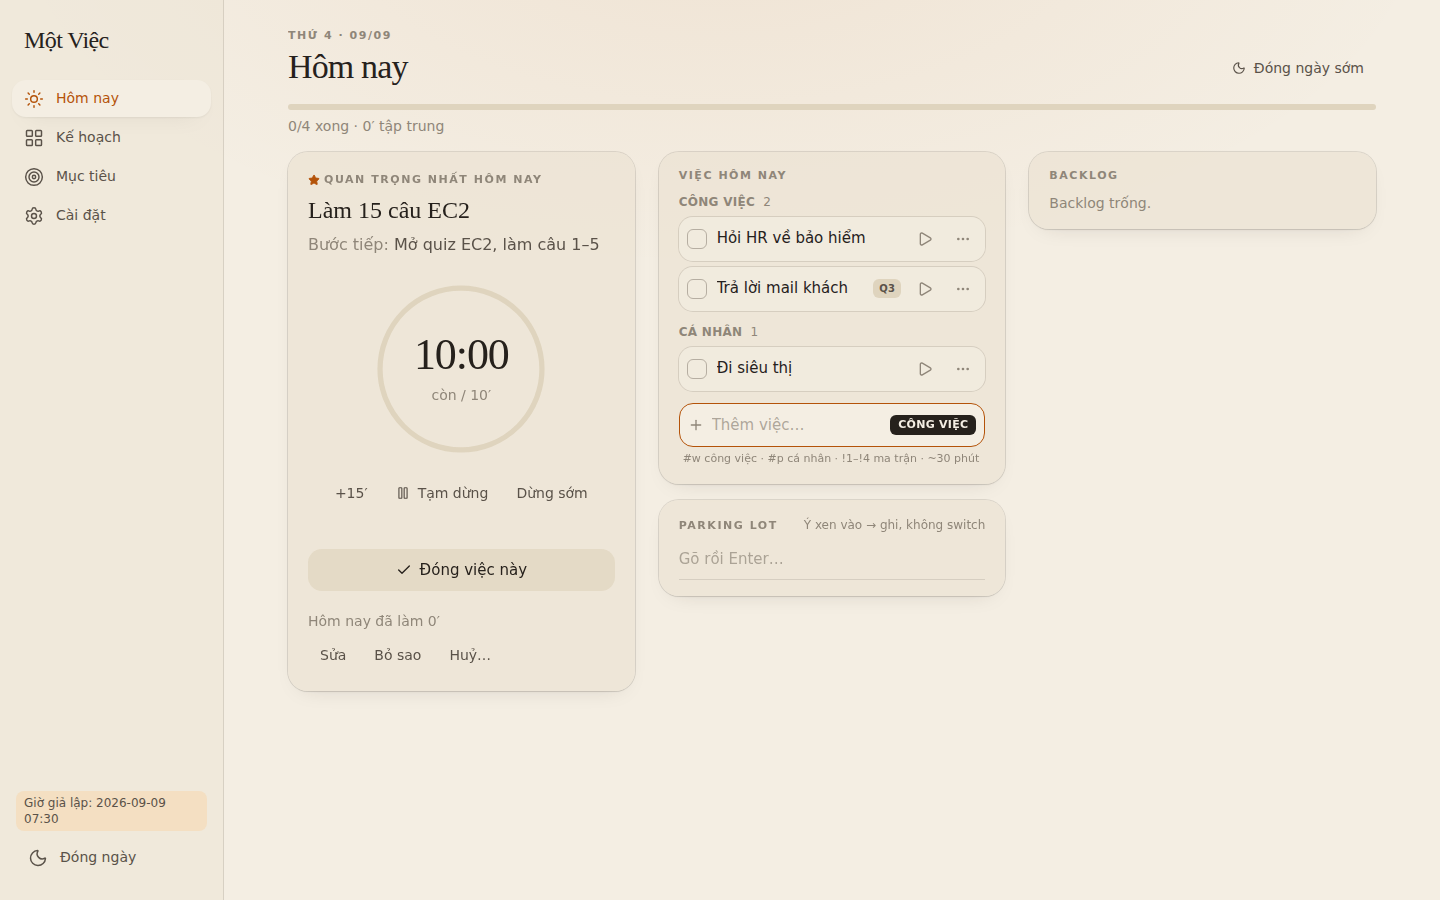
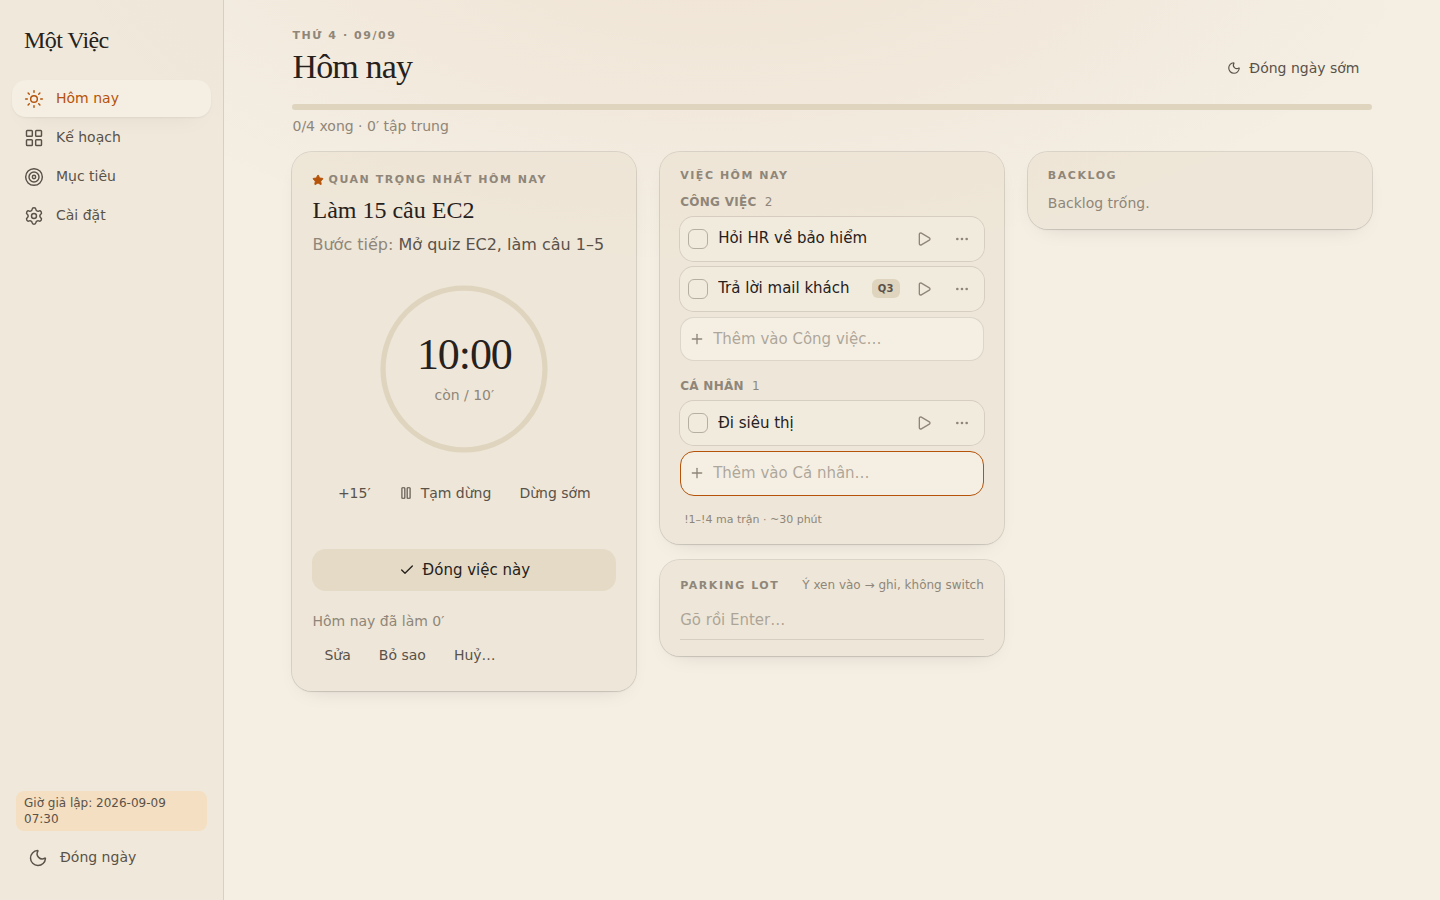
Today: one quick-add per area instead of a work/personal toggle
Adding a task on Today meant typing into a single box and remembering to
flip a work/personal chip (or to type #w / #p), even though the list right
above already shows the two areas.

Both areas now always render — Công việc and Cá nhân — each with its own
quick-add whose placeholder names the section, so the area comes from
where you type. An empty area still shows, since otherwise there would be
nowhere to add its first task. The hint line about !1–!4 and ~30 moved
below both inputs and lost the #w/#p part; the tokens still parse when
typed.

QuickAdd gains showArea and hint props for this; every other caller (the
morning screen, shutdown planning, the week and month day cells, the
backlog panels) keeps the toggle it had.

Claude-Session: https://claude.ai/code/session_01BCiC3tnhB7K4xh2K39qLye

diff --git a/src/screens/TodayScreen.tsx b/src/screens/TodayScreen.tsx
@@ -61,9 +61,9 @@ export function TodayScreen({
 
   // MIT đã có card riêng ở trên; không lặp lại trong danh sách
   const listed = open.filter((x) => x.id !== mit?.id)
+  // Luôn vẽ cả hai khu vực (kể cả khi trống) vì mỗi khu vực có ô thêm việc riêng.
   const groups: { area: Area; items: Task[] }[] = (['work', 'personal'] as Area[])
     .map((area) => ({ area, items: listed.filter((x) => x.area === area) }))
-    .filter((g) => g.items.length > 0)
 
   const progress = tasks.length > 0 && (
     <div>
@@ -167,22 +167,28 @@ export function TodayScreen({
             <Eyebrow className="mb-2">{t('today.list')}</Eyebrow>
             {listed.length === 0 && done.length === 0 && <Muted className="mb-3">{t('today.empty')}</Muted>}
             {groups.map((g) => (
-              <div key={g.area} className="mb-3">
+              <div key={g.area} className="mb-4">
                 <p className="mb-1.5 flex items-baseline gap-2 text-[12px] font-semibold uppercase tracking-wide text-ink-3">
-                  {t(`area.${g.area}`)} <span className="font-normal">{g.items.length}</span>
+                  {t(`area.${g.area}`)} {g.items.length > 0 && <span className="font-normal">{g.items.length}</span>}
                 </p>
-                <SortableList ids={g.items.map((x) => x.id)} onReorder={(ids) => void reorderTasks(ids)}>
-                  <ul className="flex flex-col gap-1.5">
-                    {g.items.map((x) => (
-                      <SortableItem key={x.id} id={x.id}>
-                        <TaskRow task={x} today={today} minutes={minutesOf.get(x.id) ?? 0} onFocus={setStarting} onEdit={setEditing} onComplete={setLogging} />
-                      </SortableItem>
-                    ))}
-                  </ul>
-                </SortableList>
+                {g.items.length > 0 && (
+                  <SortableList ids={g.items.map((x) => x.id)} onReorder={(ids) => void reorderTasks(ids)}>
+                    <ul className="mb-1.5 flex flex-col gap-1.5">
+                      {g.items.map((x) => (
+                        <SortableItem key={x.id} id={x.id}>
+                          <TaskRow task={x} today={today} minutes={minutesOf.get(x.id) ?? 0} onFocus={setStarting} onEdit={setEditing} onComplete={setLogging} />
+                        </SortableItem>
+                      ))}
+                    </ul>
+                  </SortableList>
+                )}
+                <QuickAdd
+                  scheduledFor={today} defaultArea={g.area} showArea={false} hint={false}
+                  placeholder={t('quick.ph.area', { area: t(`area.${g.area}`) })}
+                />
               </div>
             ))}
-            <QuickAdd scheduledFor={today} defaultArea={settings.defaultArea} />
+            <p className="px-1 text-[11px] text-ink-3">{t('quick.hint.short')}</p>
             {done.length > 0 && (
               <div className="mt-3">
                 <button className="flex items-center gap-1 text-[12px] font-semibold uppercase tracking-wide text-ink-3" onClick={() => setShowDone((s) => !s)}>

diff --git a/src/components/QuickAdd.tsx b/src/components/QuickAdd.tsx
@@ -6,10 +6,22 @@ import type { ISODate } from '../lib/dates'
 import { parseQuickAdd } from '../lib/quickAdd'
 import type { Area, Quadrant } from '../lib/types'
 
-/** Ô thêm nhanh: Enter để tạo. Toggle khu vực; token #w/#p/!n/~m ghi đè. */
+/**
+ * Ô thêm nhanh: Enter để tạo. Token #w/#p/!n/~m luôn ghi đè.
+ * showArea=false: bỏ nút chuyển khu vực và luôn dùng defaultArea — dùng khi ô nằm sẵn
+ * trong một khu vực (mỗi mục Công việc / Cá nhân có ô riêng) nên không cần chọn lại.
+ */
 export function QuickAdd({
-  scheduledFor, defaultArea, quadrant, onCreated, placeholder,
-}: { scheduledFor?: ISODate; defaultArea: Area; quadrant?: Quadrant; onCreated?: (id: string) => void; placeholder?: string }) {
+  scheduledFor, defaultArea, quadrant, onCreated, placeholder, showArea = true, hint = true,
+}: {
+  scheduledFor?: ISODate
+  defaultArea: Area
+  quadrant?: Quadrant
+  onCreated?: (id: string) => void
+  placeholder?: string
+  showArea?: boolean
+  hint?: boolean
+}) {
   const { t } = useT()
   const [text, setText] = useState('')
   const [area, setArea] = useState<Area>(defaultArea)
@@ -17,7 +29,7 @@ export function QuickAdd({
   async function submit() {
     const q = parseQuickAdd(text)
     if (!q.title) return
-    const task = await createTask({ title: q.title, area: q.area ?? area, quadrant: q.quadrant ?? quadrant, estimateMin: q.estimateMin, scheduledFor })
+    const task = await createTask({ title: q.title, area: q.area ?? (showArea ? area : defaultArea), quadrant: q.quadrant ?? quadrant, estimateMin: q.estimateMin, scheduledFor })
     setText('')
     onCreated?.(task.id)
   }
@@ -39,15 +51,17 @@ export function QuickAdd({
           }}
           enterKeyHint="done"
         />
-        <button
-          type="button"
-          className={`shrink-0 rounded-md px-2 py-0.5 text-[11px] font-semibold uppercase tracking-wide ${area === 'work' ? 'bg-ink text-paper' : 'bg-paper-3 text-ink-2'}`}
-          onClick={() => setArea((a) => (a === 'work' ? 'personal' : 'work'))}
-        >
-          {t(`area.${area}`)}
-        </button>
+        {showArea && (
+          <button
+            type="button"
+            className={`shrink-0 rounded-md px-2 py-0.5 text-[11px] font-semibold uppercase tracking-wide ${area === 'work' ? 'bg-ink text-paper' : 'bg-paper-3 text-ink-2'}`}
+            onClick={() => setArea((a) => (a === 'work' ? 'personal' : 'work'))}
+          >
+            {t(`area.${area}`)}
+          </button>
+        )}
       </div>
-      <p className="mt-1 px-1 text-[11px] text-ink-3">{t('quick.hint')}</p>
+      {hint && <p className="mt-1 px-1 text-[11px] text-ink-3">{t(showArea ? 'quick.hint' : 'quick.hint.short')}</p>}
     </div>
   )
 }

diff --git a/src/i18n/vi.ts b/src/i18n/vi.ts
@@ -51,6 +51,8 @@ export const vi = {
   'sheet.save': 'Lưu',
   'quick.ph': 'Thêm việc…',
   'quick.hint': '#w công việc · #p cá nhân · !1–!4 ma trận · ~30 phút',
+  'quick.ph.area': 'Thêm vào {area}…',
+  'quick.hint.short': '!1–!4 ma trận · ~30 phút',
   'today.progressBar': '{done}/{total} xong · {min}′ tập trung',
   'today.pickMit': 'Chưa chọn việc quan trọng nhất. Chạm ★ ở một việc.',
   'today.mit': 'Quan trọng nhất hôm nay',

diff --git a/src/i18n/en.ts b/src/i18n/en.ts
@@ -51,6 +51,8 @@ export const en: Record<Key, string> = {
   'sheet.save': 'Save',
   'quick.ph': 'Add a task…',
   'quick.hint': '#w work · #p personal · !1–!4 matrix · ~30 minutes',
+  'quick.ph.area': 'Add to {area}…',
+  'quick.hint.short': '!1–!4 matrix · ~30 minutes',
   'today.progressBar': '{done}/{total} done · {min}′ focused',
   'today.pickMit': 'No most-important task yet. Tap ★ on one.',
   'today.mit': 'Most important today',

diff --git a/README.md b/README.md
@@ -22,7 +22,7 @@ Trên màn rộng (≥1024px) điều hướng chuyển sang sidebar trái và m
 
 ## Bốn tab
 
-1. **Hôm nay**: MIT (nếu có) với timer đếm ngược, DoD, hậu quả, Huỷ…; danh sách việc trong ngày nhóm Công việc / Cá nhân, kéo thả sắp thứ tự, ▶ tập trung cho bất kỳ việc nào (chọn 10 / 25 / 45 / 60 phút, ước lượng của việc, hoặc nhập số khác; app nhớ lần chọn cuối), thêm nhanh `Trả lời mail #w !3 ~20`, thanh tiến độ, Parking Lot ghi nhanh. **Việc con**: mỗi việc có checklist, dòng việc hiện `k/n`, chạm để mở và tick ngay tại chỗ. **Timesheet**: đánh xong một việc là hộp ghi giờ mở ra (mặc định = phút đồng hồ đã đo, hay ước lượng), ghi kèm ghi chú, bỏ qua được; ghi thêm bao nhiêu lần cũng được trong sheet Sửa việc (chọn ngày, phút, ghi chú), tổng giờ của việc = phút đo + phút ghi. Cột **Backlog** nằm ngay cạnh danh sách (bên phải trên màn rộng): việc chưa lên lịch, kể cả việc vừa trôi từ ngày trước (nhãn "trôi từ dd/mm"), ô đầu dòng là ô **chọn** (Backlog chủ yếu để dọn): tick nhiều việc rồi **xoá hàng loạt** hoặc đưa cả loạt vào hôm nay; đánh xong một việc nằm trong menu ⋯; mỗi dòng có nút đưa thẳng vào hôm nay. Đang chạy có +15 và Tạm dừng; **tắt app hay khoá máy là timer tự dừng**, mở lại thì Tiếp tục (ẩn dưới 2 phút thì tự chạy tiếp, thời gian ẩn không tính); hết giờ app hỏi "thêm 15?" và mời **nghỉ** với số phút chọn được (5 · 10 · 15 · 20). **Nghỉ gắn với việc**: phiên nghỉ mang theo việc vừa làm, nghỉ xong bấm tiếp là quay lại đúng việc đó. Đánh xong một việc thì có âm báo và hộp ghi giờ mời nghỉ luôn.
+1. **Hôm nay**: MIT (nếu có) với timer đếm ngược, DoD, hậu quả, Huỷ…; danh sách việc trong ngày nhóm Công việc / Cá nhân, kéo thả sắp thứ tự, ▶ tập trung cho bất kỳ việc nào (chọn 10 / 25 / 45 / 60 phút, ước lượng của việc, hoặc nhập số khác; app nhớ lần chọn cuối), mỗi mục **Công việc / Cá nhân** có ô thêm nhanh riêng (`Trả lời mail !3 ~20` — khu vực lấy theo mục, không phải chọn `#w`/`#p`), thanh tiến độ, Parking Lot ghi nhanh. **Việc con**: mỗi việc có checklist, dòng việc hiện `k/n`, chạm để mở và tick ngay tại chỗ. **Timesheet**: đánh xong một việc là hộp ghi giờ mở ra (mặc định = phút đồng hồ đã đo, hay ước lượng), ghi kèm ghi chú, bỏ qua được; ghi thêm bao nhiêu lần cũng được trong sheet Sửa việc (chọn ngày, phút, ghi chú), tổng giờ của việc = phút đo + phút ghi. Cột **Backlog** nằm ngay cạnh danh sách (bên phải trên màn rộng): việc chưa lên lịch, kể cả việc vừa trôi từ ngày trước (nhãn "trôi từ dd/mm"), ô đầu dòng là ô **chọn** (Backlog chủ yếu để dọn): tick nhiều việc rồi **xoá hàng loạt** hoặc đưa cả loạt vào hôm nay; đánh xong một việc nằm trong menu ⋯; mỗi dòng có nút đưa thẳng vào hôm nay. Đang chạy có +15 và Tạm dừng; **tắt app hay khoá máy là timer tự dừng**, mở lại thì Tiếp tục (ẩn dưới 2 phút thì tự chạy tiếp, thời gian ẩn không tính); hết giờ app hỏi "thêm 15?" và mời **nghỉ** với số phút chọn được (5 · 10 · 15 · 20). **Nghỉ gắn với việc**: phiên nghỉ mang theo việc vừa làm, nghỉ xong bấm tiếp là quay lại đúng việc đó. Đánh xong một việc thì có âm báo và hộp ghi giờ mời nghỉ luôn.
 2. **Kế hoạch** (một màn, bốn cách nhìn; ba cách đầu cùng một mô hình kéo thả): *Ma trận* Eisenhower cho Backlog (kéo giữa 4 ô, kéo vào "Hôm nay"/"Mai"), *Inbox* từ Parking Lot (kéo vào ô hoặc chạm Q1–Q4 để thành việc), bộ lọc khu vực, nhắc khi Backlog quá 30. *Tuần*: 7 ngày, kéo việc giữa ngày hoặc về Backlog. *Tháng*: ô ngày hiện xong/tổng, xong hết tô đậm, chấm xanh đóng ngày đúng giờ, chấm đỏ ngủ muộn; kéo việc từ Backlog hoặc từ chi tiết ngày vào một ô để đặt ngày; chạm ngày quá khứ xem việc + phút tập trung + giờ đóng + giờ ngủ (việc đã xong thì khoá, việc còn dở vẫn kéo ra / đổi lịch được); chi tiết ngày (hôm nay và quá khứ) có **Timesheet**: từng việc đã làm bao nhiêu phút (đo + ghi tay) và tổng; bên dưới thống kê tháng (lọc khu vực) và biểu đồ cột việc xong mỗi ngày. *Nhật ký*: tuần dạng lịch kiểu Google Calendar để **nhìn lại đã làm gì, lúc nào** — lưới 24 giờ cuộn được (tự nhảy tới giờ sớm nhất có việc), vạch nửa giờ, đầu cột là số ngày với hôm nay khoanh tròn, vạch đỏ chỉ giờ hiện tại; mỗi phiên tập trung là một khối đặt đúng giờ thật và cao theo thời lượng thật (phiên trùng giờ xếp cạnh nhau), hàng "cả ngày" phía trên giữ việc đã xong không có phiên và các dòng giờ ghi tay; chạm một khối mở việc đó ra. Chỉ xem, không kéo thả. Bên trong Nhật ký có hai cách nhìn: *Lịch tuần* như trên, và *Tất cả* — mọi việc đã đánh xong từ trước tới nay, mới nhất trước, gom theo ngày, kèm số phút mỗi việc, có ô tìm theo tên và lọc khu vực.
 3. **Mục tiêu**: Tuần ▸ Quý ▸ Năm, gắn mục tiêu con vào mục tiêu cha, đếm việc gắn, **check-in** đúng hướng / chậm / kẹt kèm một dòng ghi chú, nhắc khi quá hạn check-in hoặc quá 3 mục tiêu tuần. Review tuần: việc xong / tổng, ngày có ≥10′ MIT, đóng ngày đúng giờ, ngủ so mục tiêu, số lần quay lại sau ngày trống, số lần dời việc (gồm cả việc tự trôi qua đêm). Việc xong tính theo **ngày làm xong**, nên việc lấy thẳng từ Backlog cũng được đếm.
 4. **Cài đặt**: giờ đóng ngày / ngủ / sáng, phút khởi động và gia hạn, ngưỡng nghỉ, khu vực mặc định, thông báo (âm, rung, hệ thống), ngôn ngữ, tài khoản & đồng bộ.
